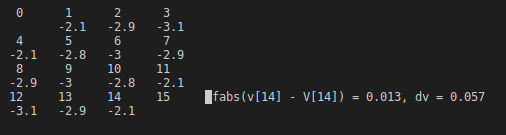
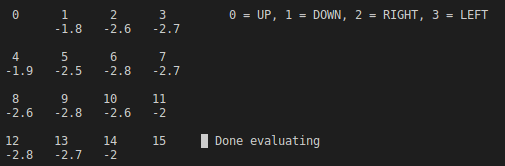
policy evaluation complete greatly reduced complexity: greedy policy and no policy improvement

diff --git a/Section 4.1 - Example 4.1/main.c b/Section 4.1 - Example 4.1/main.c
@@ -31,11 +31,8 @@ int main (void) {
   pos S[N]; /* States, as x,y positions */
   pos A[K]; /* Posible actions, how x,y will change */
   double R[N]; /* Rewards */
-  double pi[N][K]; /* Stochastic policy */
-  double pi_A[K]; /* policy improvement */
-  double Hs[N][K]; /* Policy preferences */
   double v[N], V[N]; /* State-value functions */
-  double q[N][K]; /* Action-value function */
+  double Va[K]; for(size_t i = 0; i < K; i++) Va[i] = 0; /* state-value for each action */
 
   /*******************/
   /* Initializations */
@@ -67,11 +64,6 @@ int main (void) {
     /* Initialize arrays */
     v[i] = 0;
     V[i] = 0;
-
-    for (size_t ii = 0; ii < K; ii++) {
-      pi[i][ii] = 0.25;
-      q[i][ii] = 0;
-    }
   }
 
   /* State-value function */
@@ -86,9 +78,7 @@ int main (void) {
   double E = 0.5; /* theta, threshold of return increase */
   double g = 0.7; /* gamma, discounted return */
   double Vsum = 0; /* sum of policy for each state */
-  int policy_stable = 0; /* decision for policy improvement */
   char str[STR_LEN]; /* string for displaying messages */
-  size_t a_new = 0;
 
   /* Training loop */
   while(1) {
@@ -96,79 +86,82 @@ int main (void) {
     if (c == 'q') break; /* Quit */
 
     else { /* Start training */
+      /* Policy Evaluation */
       do {
-        /* Policy Evaluation */
-        do {
-          /* Redraw gridworld */
-          clear();
-          draw_gridworld(S, N);
-          move(0,(W)*W_scale+4);
-          winsnstr(wnd, "0 = UP, 1 = DOWN, 2 = RIGHT, 3 = LEFT", STR_LEN);
-          move((H-1)*H_scale,(W)*W_scale);
-
-          dv = 0; /* Reset evaluation */
-          for (size_t s = 1; s < (N-1); s++) { /* Loop over all states */
-            /* Update V(s) */
-            v[s] = V[s]; /* Store old state-value: v <- V(s) */
-            size_t a = random_decision(pi[s], K);
-            size_t sn = next_state_gw(S[s], A[a]); /* Calculate index of next state */
-            V[s] = (R[sn] + g*V[sn]); /* MDP dynamics: p(sn,r|s,pi(s)) */
-            //Vsum = 0;
-            //for (size_t a = 0; a < K; a++) {
-            //  size_t sn = next_state_gw(S[s], A[a]); /* Calculate index of next state */
-            //  q[s][a] = pi[s][a]*(R[sn] + g*V[sn]); /* MDP dynamics: p(sn,r|s,pi(s)) */
-            //  Vsum += q[s][a]; /* state-value is sum of action-values? */
-            //}
-            //V[s] = Vsum; /* V(s) <- MDP dynamics */
-            dv = (dv > fabs(v[s] - V[s]) ? dv : fabs(v[s] - V[s])); /* Update state-value improvement */
-
-            /* Print value in grid */
-            move_gridworld(S[s]);
-            sprintf(str, "%0.2g", V[s]);
-            winsnstr(wnd, str, STR_LEN);
-          }
-          //getch();
-        } while(dv > E); /* Break when update less than margin */
+        /* Redraw gridworld */
+        clear();
+        draw_gridworld(S, N);
+        move(0,(W)*W_scale+4);
+        winsnstr(wnd, "0 = UP, 1 = DOWN, 2 = RIGHT, 3 = LEFT", STR_LEN);
         move((H-1)*H_scale,(W)*W_scale);
-        winsnstr(wnd, "  Done evaluating\n", STR_LEN);
+
+        dv = 0; /* Reset evaluation */
+        for (size_t s = 1; s < (N-1); s++) { /* Loop over all states */
+          /* Update V(s) */
+          v[s] = V[s]; /* Store old state-value: v <- V(s) */
+          Vsum = 0;
+          for (size_t a = 0; a < K; a++) { /* Loop over next states (actions) */
+            size_t sn = next_state_gw(S[s], A[a]); /* Calculate next state */
+            /* MDP dynamics: pi(a|s) = 0.25 (equiprobable), p(sn,r|s,a) = 1.0 */
+            Vsum += 0.25*(R[sn] + g*V[sn]);
+          }
+          V[s] = Vsum;
+          dv = (dv > fabs(v[s] - V[s]) ? dv : fabs(v[s] - V[s])); /* Update state-value improvement */
+          /* Print value in grid */
+          move_gridworld(S[s]);
+          sprintf(str, "%0.2g", V[s]);
+          winsnstr(wnd, str, STR_LEN);
+        }
+        getch();
+      } while(dv > E); /* Break when update less than margin */
+      move((H-1)*H_scale,(W)*W_scale);
+      winsnstr(wnd, "  Done evaluating\n", STR_LEN);
+      getch();
+
+      /* Test policy for every state */
+      size_t a = 0, ss = 0;
+      for (size_t s = 1; s < (N-1); s++) {
+        /* Display in gridworld */
+        move((H-1)*H_scale,(W)*W_scale);
+        sprintf(str, "  Starting in state: %zu\n", s);
+        winsnstr(wnd, str, STR_LEN);
+        move((H-1)*H_scale+3,(W)*W_scale);
+        sprintf(str, "\n");
+        winsnstr(wnd, str, STR_LEN);
+
+        ss = s;
+        move_gridworld(S[ss]); /* move cursor */
         getch();
 
-        /* Policy Improvement */
-        policy_stable = 0;
-        for (size_t s = 1; s < (N-1); s++) {
-          /* Old decision */
-          size_t a_old = random_decision(pi[s], K);
-          /* Update policy */
-          for (size_t a = 0; a < K; a++) {
-            size_t sn = next_state_gw(S[s], A[a]); /* Calculate index of next state */
-            pi_A[a] = pi[s][a]*(R[sn] + g*V[sn]);
+        do { /* take actions until in 0 or N-1 */
+          for (a = 0; a < K; a++) { /* greedy search for best action */
+            Va[a] = V[next_state_gw(S[ss], A[a])];
           }
-          /* Softmax of update */
-          softmax(pi[s], pi_A, K);
-          /* Get a_new from updated policy */
-          a_new = random_decision(pi[s], K);
-          /* Check policy */
-          if (a_old == a_new) policy_stable++;
-
-          /* Display results */
-          move((H-1)*H_scale,(W)*W_scale);
-          sprintf(str, "   pi_A[%d] = %0.2g,  pi_A[%d] = %0.2g,  pi_A[%d] = %0.2g,  pi_A[%d] = %0.2g\n",
-                  0, pi_A[0], 1, pi_A[1], 2, pi_A[2],  3, pi_A[3]);
-          winsnstr(wnd, str, STR_LEN);
-
+          a = argmax(Va, K);
+          ss = next_state_gw(S[ss], A[a]); /* choose argmax a */
+          
+          /* Display in gridworld */
           move((H-1)*H_scale+1,(W)*W_scale);
-          sprintf(str, "   p[%zu][%d] = %0.2g,  p[%zu][%d] = %0.2g,  p[%zu][%d] = %0.2g,  p[%zu][%d] = %0.2g\n",
-                  s, 0, pi[s][0], s, 1, pi[s][1], s, 2, pi[s][2], s, 3, pi[s][3]);
+          sprintf(str, "  State: %zu, V[a=%d] = %0.2g, V[a=%d] = %0.2g, V[a=%d] = %0.2g, V[a=%d] = %0.2g\n",
+                  ss, 0, Va[0], 1, Va[1], 2, Va[2], 3, Va[3]);
           winsnstr(wnd, str, STR_LEN);
-
           move((H-1)*H_scale+2,(W)*W_scale);
-          sprintf(str, "   a_old = %zu, a_new = %zu, Policy stable? %d\n", a_old, a_new, policy_stable);
+          sprintf(str, "  Took action: %zu\n", a);
           winsnstr(wnd, str, STR_LEN);
-
-          move_gridworld(S[s]);
+          move_gridworld(S[ss]); /* move cursor */
           getch();
-        }
-      } while (policy_stable < N - 1);
+        } while (ss != 0 && ss != N-1);
+        /* Display in gridworld */
+        move((H-1)*H_scale+3,(W)*W_scale);
+        sprintf(str, "  Reached terminal position: %zu!\n", ss);
+        winsnstr(wnd, str, STR_LEN);
+        move_gridworld(S[ss]);
+        getch();
+      }
+      move((H-1)*H_scale-2,(W)*W_scale);
+      sprintf(str, "  PRESS ANY BUTTON TO QUIT\n");
+      winsnstr(wnd, str, STR_LEN);
+      getch();
       break;
     }
   }
@@ -176,29 +169,3 @@ int main (void) {
   endwin();
   return 0;
 }
-
-
-            
-            // /* Action probability, of previous H */
-            // softmax(pi, H, K);
-
-            // /* Pick previous action, based on previous H */
-            // A = (t > 0 ? random_decision(pi, K) : (size_t)rand()%K);
-
-            // /* Generate reward of previous action */
-            // randn(q[A], 1, &R, 1);
-
-/* Code Testing */
-
-  // /* Testing variables */
-  // size_t ss = 3;
-  // int aa = 1;
-    // else if (c == ' ') {
-    //   /* Code testing */
-    //   move_gridworld(S[ss]);
-    //   refresh();
-    //   c = getch();
-    //   ss = next_state_gw(S[ss], A[aa], h, w);
-    //   move_gridworld(S[ss]);
-    //   refresh();
-    // }

diff --git a/Section 4.1 - Example 4.1/README.md b/Section 4.1 - Example 4.1/README.md
@@ -1,4 +1,11 @@
-# Chapter 4 - Policy Evaluation and Improvement (MDP)
+# Chapter 4 - Policy Evaluation in Gridworld (Example 4.1)
+
+## Implementation
+Performs policy *evaluation* only. Policy *improvement* remains elusive. Uses threshold theta = 0.5, and discounted return gamma = 0.7.
+
+Evaluates until dV < theta, then interactively acts out a greedy policy for each state.
+
+## Run
 Run `./build.sh && ./main`
 
 Curses window will launch in terminal. Press 'q' to quit, or press any other key to continuously step through policy evaluation.
@@ -6,3 +13,7 @@ Curses window will launch in terminal. Press 'q' to quit, or press any other key
 Results similar to Figure 4.1:
 
 ![](gridworld.png)
+
+Testing greedy policy after evaluation:
+
+![](gridworld.gif)
